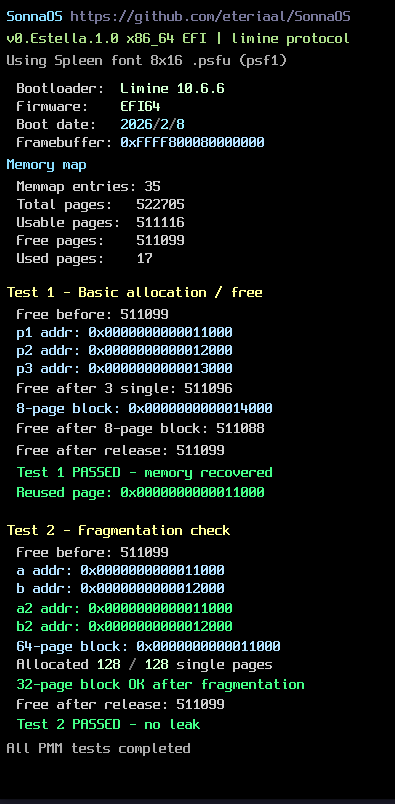
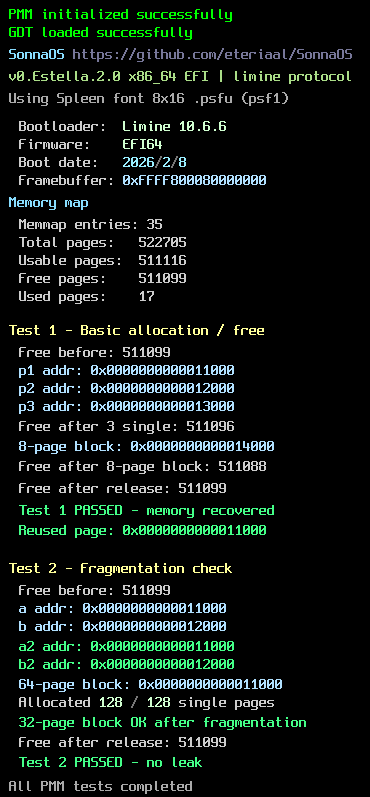
forgot to update readme..

Changed region(s): [[0.0, 0.0, 1.0, 1.0], [0.5946, 0.3614, 0.7135, 0.4216], [0.773, 0.9034, 0.8324, 0.9335]]

diff --git a/README.md b/README.md
@@ -6,11 +6,12 @@ Writing an operating system because I want to occupy my time...
 
 ### Current status
 - Boots via Limine kernel protocol
+- GDT: kernel and user segments
 - Simple bitmap-based physical memory manager
 - Framebuffer console with Spleen 8x16 font (PSF1)
 - Debug output: boot info, memory map, PMM alloc/free tests
 
-Next: PSF2, GDT, TSS, IDT
+Next: IDT, PSF2, TSS
 
 ![screenshot](sonnaos.png)
 
